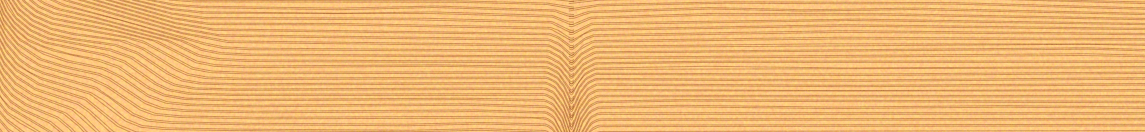
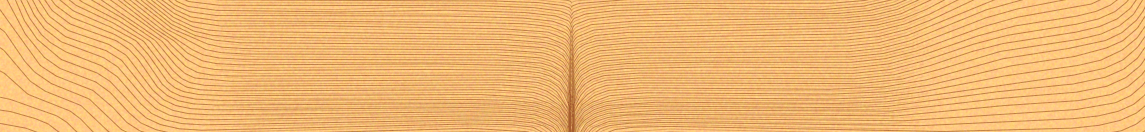
cp-eras-ui: veneer, the mail row and the SMG button take the reference's figure
Mapped on the reference: the row is one fine even comb in the middle
(period 2.6 px) and sparse curving lines at both ends (8-10 px), with a
5-texel dark crease where the halves meet; the bright ends and the dark
lower band are line spacing and ink, not a highlight. The twin comb is
windowed to the middle, the ends fan, and the seam is a cusp with the
measured angle profile. SMG is the same at its size. The other four
textures are byte-identical. Goldens follow.

diff --git a/home/common/pkgs/cp-eras-ui/scripts/make-veneer.py b/home/common/pkgs/cp-eras-ui/scripts/make-veneer.py
@@ -34,6 +34,9 @@ drawn with the *line, ground and grain* measured for the blend generator.
    A term marked `comb` ('main' or 'twin') shapes that comb only, so the
    other runs straight through it and the two cross (the EMAIL card's
    top arcs).
+   A family marked `combs` ('main' or 'twin') traces that comb only; a
+   `fan` spreads a family's lines about a level near one end (the mail
+   row's sparse ends).
 
 2. Lines. The lines are the levels phi = (k + offset) * pitch: constant
    pitch away from the figure, `pitch` the measured per-comb spacing
@@ -112,10 +115,37 @@ EMAIL_SWIRL_TWIN = dict(kind='shear', ts=55.0, w=15.0, amount=(0.0, -0.1), accel
 # comb fades over 10 px at its window end instead of stopping on a row.
 EMAIL_QUANT = dict(step=10.0, hyst=1.5)
 MAIL_STEP = [(0.0, 50.0), (17.0, 70.0), (32.0, 60.0), (55.0, 35.0)]
-MAIL_SEAM = dict(kind='bend', ts=238.1, w=6.0, p=2.0, amount=(-1.0, -12.0))
-MAIL_CREASE = dict(kind='bend', ts=238.1, w=2.0, p=2.0, amount=(0.0, -4.0), power=1.5)
-SMG_SEAM = dict(kind='bend', ts=99.6, w=6.0, p=2.0, amount=(4.0, 9.0))
-SMG_CREASE = dict(kind='bend', ts=99.6, w=1.5, p=2.0, amount=(1.0, 3.0))
+# The mail row and SMG button (2026-11-16 veneer pass). Measured on the
+# reference: both rows are dense in the middle (period 2.6 / 2.4 texels,
+# one even comb) and sparse at the ends (8-10 / 6-8.7), the ends'
+# lines curving. The middle is two combs at offset 0.5; the twin fades
+# out towards the ends (`combs`, `fade`), and on the mail row a `fan`
+# spreads the main comb about a level below the bottom edge, so its
+# upper lines rise to the ends and leave by the top. MAIL_SEAM is a cusp
+# (p 0.5) whose amount grows down the row at ~0.6 per px: the lines curve
+# down into the axis ever more steeply, turn vertical and pack into the
+# dark crease (MAIL_SEAM2 the wider arcs); MAIL_BAND packs the bottom
+# rows of the middle into the reference's darker band. The main comb
+# inks at 1.3 and the twin at 0.7, so the ends' lines are as bold as the
+# reference's and the twin's 30-px fade does not read as a box at 1600x900.
+MAIL_SEAM = dict(kind='bend', ts=238.1, w=1.25, p=0.5, amount=[(0.0, -1.0), (10.0, -4.0), (55.0, -24.0)])
+MAIL_SEAM2 = dict(kind='bend', ts=238.1, w=10.0, p=1.5, amount=[(0.0, -1.0), (20.0, -3.0), (55.0, -8.0)])
+MAIL_BAND = dict(kind='bend', ts=238.1, w=140.0, p=4.0, amount=[(0.0, 0.0), (42.0, 0.0), (53.0, 4.0), (55.0, 4.0)])
+MAIL_FAN_L = dict(kind='fan', ts=0.0, w=62.0, p=5.0, gain=0.5, centre=60.0)
+MAIL_FAN_R = dict(kind='fan', ts=0.0, w=85.0, p=4.0, gain=0.63, centre=60.0)
+MAIL_LEFT = [dict(kind='bend', ts=-3.0, w=22.0, p=2.0, amount=[(0.0, 36.0), (20.0, 22.0), (40.0, 8.0), (55.0, 2.0)]),
+             dict(kind='ramp', k=5.0, a=[(x, t - 18.0) for x, t in MAIL_STEP],
+                  b=[(x, t + 18.0) for x, t in MAIL_STEP], amount=[(0.0, -16.0), (55.0, -16.0)]),
+             MAIL_SEAM, MAIL_SEAM2, MAIL_BAND, MAIL_FAN_L]
+MAIL_RIGHT = [dict(kind='bend', ts=-3.0, w=14.0, amount=(25.0, 8.0)), MAIL_SEAM, MAIL_SEAM2, MAIL_BAND, MAIL_FAN_R]
+# SMG: the crease's bend peaks at mid-height and dies out at the bottom
+# (the reference's chevrons: 44 deg at native row 45, ~0 at row 85); both
+# ends fall towards the edge, more towards the bottom, which spreads them.
+SMG_SEAM = dict(kind='bend', ts=99.6, w=6.0, p=2.0, amount=[(0.0, 3.0), (18.0, 6.0), (30.0, 1.5), (38.6, 0.0)])
+SMG_CREASE = dict(kind='bend', ts=99.6, w=1.5, p=2.0, amount=[(0.0, 1.0), (16.0, 3.0), (19.0, 3.0), (24.0, 2.5), (38.6, 0.0)])
+SMG_END = [(0.0, -8.0), (12.0, -14.0), (28.0, -26.0), (38.6, -22.0)]
+SMG_LEFT = [dict(kind='bend', ts=-3.0, w=20.0, p=2.0, amount=SMG_END), SMG_SEAM, SMG_CREASE]
+SMG_RIGHT = [dict(kind='bend', ts=200.6, w=20.0, p=2.0, amount=SMG_END, real=True), SMG_SEAM, SMG_CREASE]
 BASKET_SEAM = dict(kind='bend', ts=85.0, w=6.0, p=2.0, amount=(4.5, 5.5))
 BASKET_CREASE = dict(kind='bend', ts=85.0, w=1.5, p=2.0, amount=(2.5, 3.0))
 
@@ -251,48 +281,35 @@ SURFACES = {
             ]),
         ],
     ),
-    # Mailbox, the selected row (477 x 55). Horizontal grain; at the left
-    # end the lines rise to the top edge and step down across a band that
-    # bulges right at mid-height (the ramp, centre MAIL_STEP, 36 wide);
-    # book-match about t 238.1 (texel 571.5): lines from both sides curve
-    # DOWN into it (the reference's arcs; the third pass had them rising),
-    # more towards the bottom edge.
+    # Mailbox, the selected row (477 x 55). Horizontal grain, book-matched
+    # about t 238.1 (texel 571.5); see MAIL_* above. The left end keeps
+    # the step (ramp about MAIL_STEP) and a rise into the top-left corner.
     'mailbox-row': dict(
-        size=(477.0, 55.0), axis='h', seed=1303, pitch=5.7 / R,
-        twin=dict(offset=0.74),
+        size=(477.0, 55.0), axis='h', seed=1303, pitch=5.2 / R,
+        twin=dict(offset=0.5),
         look=dict(ground=(258, 202, 130), single=(207, 146, 83), grain=(3.4, 5.0, 6.1)),
         wave=dict(amp=2.0, along=120.0, across=20.0),
         kinks=dict(n=10, amp=0.8, rs=(2.0, 5.0), rt=(6.0, 18.0)),
         families=[
-            dict(window=(None, 239.0), terms=[
-                dict(kind='bend', ts=-3.0, w=14.0, amount=(32.0, 12.0)),
-                dict(kind='ramp', k=5.0, a=[(x, t - 18.0) for x, t in MAIL_STEP],
-                     b=[(x, t + 18.0) for x, t in MAIL_STEP], amount=[(0.0, -16.0), (55.0, -16.0)]),
-                MAIL_SEAM, MAIL_CREASE,
-            ]),
-            dict(mirror=238.1, window=(237.2, None), terms=[MAIL_SEAM, MAIL_CREASE]),
+            dict(window=(None, 238.0), trim=True, combs='main', ink=1.3, terms=MAIL_LEFT),
+            dict(window=(80.0, 238.0), trim=True, combs='twin', fade=(30.0, 0.0), ink=0.7, terms=MAIL_LEFT),
+            dict(mirror=238.1, window=(238.2, None), trim=True, combs='main', ink=1.3, terms=MAIL_RIGHT),
+            dict(mirror=238.1, window=(238.2, 396.2), trim=True, combs='twin', fade=(0.0, 30.0), ink=0.7, terms=MAIL_RIGHT),
         ],
     ),
     # Store, the selected SMG category (200.6 x 38.6). Horizontal grain,
-    # lines pinching at the left end; book-match about t 99.6 (texel 239,
-    # the button's middle) where the lines rise into a narrow crease
-    # (about +-10 texels, 20-45 deg, as measured); at the right end they
-    # all fall towards the right edge.
+    # book-matched about t 99.6 (texel 239); see SMG_* above.
     'store-nav': dict(
-        size=(200.6, 38.6), axis='h', seed=1404, pitch=4.9 / R,
-        twin=dict(offset=0.61),
+        size=(200.6, 38.6), axis='h', seed=1404, pitch=4.8 / R,
+        twin=dict(offset=0.5),
         look=dict(ground=(249, 198, 128), single=(202, 140, 74), grain=(6.0, 5.2, 6.2)),
         wave=dict(amp=1.6, along=100.0, across=20.0),
         kinks=dict(n=6, amp=0.8, rs=(2.0, 5.0), rt=(5.0, 14.0)),
         families=[
-            dict(window=(None, 100.4), terms=[
-                dict(kind='bend', ts=-3.0, w=16.0, amount=(17.0, -12.0)),
-                SMG_SEAM, SMG_CREASE,
-            ]),
-            dict(mirror=99.6, window=(98.8, None), terms=[
-                SMG_SEAM, SMG_CREASE,
-                dict(kind='bend', ts=200.6, w=20.0, p=2.0, amount=(-16.0, -8.0), real=True),
-            ]),
+            dict(window=(None, 100.4), combs='main', terms=SMG_LEFT),
+            dict(window=(30.0, 100.4), combs='twin', fade=(8.0, 0.0), terms=SMG_LEFT),
+            dict(mirror=99.6, window=(98.8, None), combs='main', terms=SMG_RIGHT),
+            dict(mirror=99.6, window=(98.8, 169.2), combs='twin', fade=(0.0, 8.0), terms=SMG_RIGHT),
         ],
     ),
     # Store, the BASKET plate's lower band (204.6 x 45). Horizontal grain,
@@ -358,6 +375,8 @@ def across(s, S, amount, power=1.0):
     points is piecewise linear instead."""
     if isinstance(amount, list):
         return pw(s, amount)
+    if np.isscalar(amount):
+        return amount
     a0, a1 = amount
     return a0 + (a1 - a0) * np.clip(s / S, 0.0, 1.0) ** power
 
@@ -502,7 +521,10 @@ def family_phi(surf, fam, s, t):
         elif kind == 'fan':
             fan = term
     if fan is not None:
-        g = 1.0 + fan['gain'] * np.exp(-np.abs(tm - fan['ts']) / fan['w'])
+        # Lines spread (gain > 0) by g about the level `centre` near ts,
+        # a profile exp(-(d/w)^p): the sparse, figured ends of a row
+        # whose middle is dense, the lines between leaving by the edges.
+        g = 1.0 + across(s, S, fan['gain']) * np.exp(-(np.abs(tm - fan['ts']) / fan['w']) ** fan.get('p', 1.0))
         phi = fan['centre'] + (phi - fan['centre']) / g
     # Irregular spacing: B is noise in phi itself, so a bunch of lines
     # stays a bunch along the grain. |dB/dphi| <= amp keeps it monotone.
@@ -771,7 +793,12 @@ def lines(spec):
         if fade:
             box = domain(surf, fam)
             fade = (box[2], box[3], fade[0], fade[1], spec['axis'])
-        for twin in ((False, True) if surf.twin else (False,)):
+        # `combs` ('main' or 'twin') traces one comb of the family only:
+        # a twin that fades out where the other leaf's lines spread.
+        combs = (False, True) if surf.twin else (False,)
+        if fam.get('combs'):
+            combs = (fam['combs'] == 'twin',)
+        for twin in combs:
             for Q, _ in trace_family(surf, fam, twin):
                 if len(Q) < 3:
                     continue

diff --git a/home/common/pkgs/cp-eras-ui/docs/neokitsch/veneer-texture.md b/home/common/pkgs/cp-eras-ui/docs/neokitsch/veneer-texture.md
@@ -384,6 +384,99 @@ horizontal under the chamfer; the EMAIL band's lattice is a little
 weaker than the reference's. The mail row, SMG button and store streak
 (review items 3 and 4) were not revisited.
 
+### Fifth refinement (2026-11-16): mail row and SMG button
+
+Two surfaces refit (`mailbox-row.png`, `store-nav.png`); the other four
+PNGs are byte-identical (sha256 checked). Generator changes, neither of
+which alters a surface that does not use it:
+
+- `fan` takes `p` (profile `exp(-(d/w)^p)`, default 1 as before) and a
+  `gain` piecewise across the grain. No surface used `fan` before.
+- A family may carry `combs='main'` or `'twin'`: it traces that comb
+  only, so a twin can have its own window, `fade` and `ink`.
+
+**What the reference's row does** (native 4K crop, structure tensor for
+angles, FFT of 24-row column profiles for the period; text masked):
+
+- *Density, not a highlight.* The middle (texel x ~280-880 of 1145) is
+  one even comb at period **2.6** (FFT peak 2.59, no 5.2 sub-harmonic);
+  both ends are sparse, period **8-10**, with bolder-reading lines. The
+  switch is abrupt (6.0 to 2.6 between neighbouring 40-px bins) and its
+  edge leans, which is the "lens" the review saw at 1600x900. The ends'
+  brightness is that density: median G 200-206 against 180-188 in the
+  middle, while the line cores (5th percentile) are the same 150-165.
+  The darker band along the bottom of the middle (rows ~102-127) is ink,
+  not shade: its line cores drop ~25-30 G levels (165 to 135-145) but its
+  bright gaps only ~5-15, which a multiplicative overlay would not do
+  (it would drop both by ~10%). Nothing along the top edge measures as a
+  bevel in the crop (row 0-12 mean G 190 against 184-189 below). So no
+  surface highlight is needed; everything is the texture's.
+- *Seam.* Lines curve down into x 571.5 ever more steeply (bottom rows:
+  -1 deg at 47 texels out, -8 at 45, -17 at 33, -48 at 15, -80 at 3) and
+  turn vertical; the crease is ~5 texels wide, G 122-139 in rows 104-132
+  (~55 below its surround), ~151-156 at rows 56-74, absent at the top.
+- *Ends.* Left: near-vertical lines into the top-left corner (x 10-85,
+  rows 4-34, -60..-89), a diagonal step band (-20..-35) from about
+  (110, 24) to (185, 54) and (160, 94), the bottom rows nearly flat.
+  Right: lines rise to the right (+13..+38 at x 930-1010, +55..+80 into
+  the top-right corner).
+- *SMG.* The same: middle period 2.3-2.5, ends 6-8.7. Both ends' lines
+  *fall* towards the edge (left: +13..+52 in rows 5-53, i.e. down to the
+  left; right: -10..-54), most at mid-height: nested arcs following the
+  rounded outline, which also spreads them. The seam's bend peaks at
+  mid-height (44 deg at row 45, 20 at row 65, ~0 at row 85): a dark crease
+  above, light chevrons below.
+
+**Mail row, now.** `pitch` 5.2 / R with `twin` offset 0.5 (two combs,
+2.6-texel gaps). Per half, two families: the main comb over the whole
+half (ink 1.3), and the twin windowed to t 80-238 (mirrored, 238.2-396.2)
+with a 30-px `fade` at its outer end (ink 0.7; at ink 1 and a 12-px fade
+the middle read as a darker box at 1600x900). Terms: `MAIL_FAN_L`
+(`fan` about level 60, gain 0.5, w 62, p 5) and `MAIL_FAN_R` (gain 0.63,
+w 85, p 4) spread the main comb at the ends and lift its upper lines out
+of the top edge; `MAIL_SEAM` a cusp (`bend` p 0.5, w 1.25) of amount -1 /
+-4 / -24 at s 0 / 10 / 55 (the angle profile above fits p 0.5 best;
+an amount growing ~0.45 per px packs the lines into the crease without
+reversing them; -45 drew a solid 8-texel stripe) plus `MAIL_SEAM2` (w 10,
+p 1.5, -1 / -3 / -8) for the wider arcs; `MAIL_BAND` (`bend` w 140, p 4
+about the axis, +4 over s 42-53) the bottom band. The left-end bend is
+now w 22, p 2, amount 36 / 22 / 8 / 2 at s 0 / 20 / 40 / 55 (a taper of
+1.25 per px hooked the top-left lines into loops), the step ramp is
+unchanged, and the right end gains a bend (ts -3 in the mirrored
+coordinates, w 14, 25 to 8). The halves' windows stop 0.1 px short of
+the axis: a seed on the cusp traced two points and, being an earlier
+seed, made the de-duplication drop the real trace of the top lines.
+
+**SMG, now.** `pitch` 4.8 / R, `twin` offset 0.5, the twin windowed to
+t 30-169 with an 8-px fade. `SMG_END` (amount -8 / -14 / -26 / -22 at s
+0 / 12 / 28 / 38.6, `bend` w 20 p 2 at each edge; the left one was the
+other sign, rising to the left) drops the lines into both edges, more
+lower down, which spreads them. `SMG_SEAM` 3 / 6 / 1.5 / 0 at s 0 / 18 /
+30 / 38.6 (was 4 to 9, steepest at the bottom), `SMG_CREASE` 1 / 3 / 3 /
+2.5 / 0 at s 0 / 16 / 19 / 24 / 38.6.
+
+Numbers (native 4K crop; reference / committed / now). Mean angle error
+(deg, text masked) by region, mail row x 0-260 / 260-520 / 520-625 /
+625-880 / 880-1145: 14.7 3.9 11.2 3.9 14.1 (all 9.9) / 17.3 4.1 8.1 3.8
+10.9 (all 9.8). Mean G same regions: 188.7 181.3 181.5 181.2 184.7 /
+182.5 182.9 178.5 183.0 183.1 / 189.2 179.3 171.8 179.3 190.5. Period
+(texels): middle 2.6 / 5.7-6.4 (pairs) / 2.5-3.0; ends 8-10 / 3.9-4.9 /
+7-14 (the far left 12-14). Crease, mean G at x 568-574, rows 104-118: 167 127 122 149 /
+155 162 153 173 / 109 113 103 140 (rows 56-74: 182 156 151 174 /
+172 173 169 177 / 150 134 128 165). SMG x 0-90 / 90-215 / 215-265 /
+265-390 / 390-482: 34.4 4.3 33.8 3.8 14.1 (all 12.4) / 7.4 6.7 15.5 5.4
+10.8 (all 7.9); mean G 182.5 181.4 175.4 181.8 183.0 / 178.5 175.2 165.1
+174.3 171.3 / 185.6 173.7 169.2 174.5 185.1.
+
+Still wrong after it: the mail row's left end lacks the reference's
+diagonal gathered streaks (its step band and top-left corner read as
+one smooth rise; angle error there is worse than before), the crease is
+~15 G levels too dark at the bottom and a wedge rather than an even
+stripe, and the twin's fade edge is still straight across the row where
+the reference's leans. The SMG middle is ~7 G levels darker than the
+reference's (its 2.4-texel pitch with the measured single line), and its
+lower seam's chevrons are steeper than the reference's at rows 53-61.
+
 ## Surfaces
 
 | Texture | Surface | Design box | Texels |
